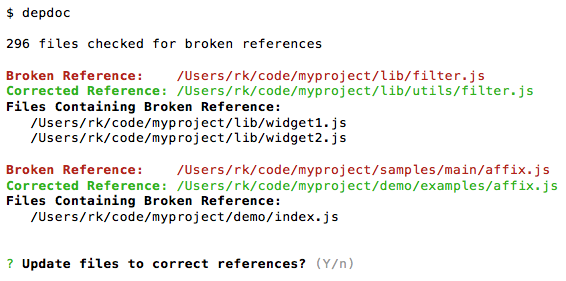
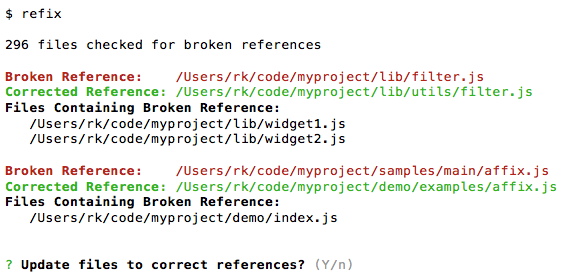
Fixed bug in expanding JS filenames. Better tests.

diff --git a/lib/cli.js b/lib/cli.js
@@ -47,23 +47,23 @@ var cli = {
 
 		program
 			.version('0.1')
-			.description('Finds and repairs broken references recursively in files in the working directory.')
+			.description('Finds and repairs broken references in the working directory. Enclose all option values in quotes.')
 			.usage('[options] [working_directory]')
 
 			// Configuration options
-			.option('-c, --config [filepath]', 'Path of custom configuration file')
-			.option('-m, --mode <default|html>', 'Type of references to look for, module import/require references (default) or HTML links (html)')
-			.option('-d, --dir <directories>', 'Comma-separated list of directories to exclude from parsing. Quotes required. (e.g., \'test,bin\')')
-			.option('-f, --files <source_globs> [target_globs]', 'Filter the source (referencing) and target (referenced) files that are analyzed and repaired. (e.g., \'*1.js,*2.js\' \'file.js\'')
+			.option('-c, --config [filepath]', 'path of custom configuration file')
+			.option('-m, --mode <default|html>', 'type of references to look for, JS import/require (default) or HTML href/src (html)')
+			.option('-f, --files <source_globs> [target_globs]', 'filter the source (referencing) and target (referenced) files parsed (e.g., \'*1.js,*2.js\' \'file.js\'')
+			.option('-d, --dirs <directory_globs>', 'exclude from sources the specified directories (e.g., \'test,bin\')')
 
 			// Report options
-			.option('-e, --errors', 'List the files that contain broken references to other files and prompt you to fix them')
-			.option('-s, --sources', 'List the files (sources of references) that contain references to other files')
-			.option('-t, --targets', 'List the files (targets of references) that are referenced by other files')
+			.option('-e, --errors', 'list broken references and prompt to fix them')
+			.option('-s, --sources', 'list files (sources of references) containing references to other files')
+			.option('-t, --targets', 'list files (targets of references) referenced by other files')
 
 			// Processing options
-			.option('-u, --unprompted', 'Don\'t prompt to fix broken references, just fix them (unless -r)')
-			.option('-r, --read-only', 'Don\'t fix broken references')
+			.option('-n, --no-prompts', 'fix broken references without prompting (unless -r)')
+			.option('-r, --report-only', 'don\'t fix broken references, just display reports')
 			.parse(process.argv);
 
 		if (program.mode) {
@@ -73,18 +73,24 @@ var cli = {
 		var options = {};
 		var cliResults = this.getMultipleArgsForOptions();
 		options.workingDir = cliResults._trailingArg;
-		if (cliResults.dir) {
-			options.directoryFilter = cliResults.dir[0]
-				? cliResults.dir[0].replace(/['"]/g, '').split(/, *| +/)
+		if (cliResults.dirs) {
+			options.directoryFilter = cliResults.dirs[0]
+				? cliResults.dirs[0].replace(/['"]/g, '').split(/, *| +/)
 				: null;
 		}
 		if (cliResults.files) {
-			options.referencingFileFilter = cliResults.files[0]
-				? cliResults.files[0].replace(/['"]/g, '').split(/, *| +/)
-				: null;
-			options.referencedFileFilter = cliResults.files[1]
-				? cliResults.files[1].replace(/['"]/g, '').split(/, *| +/)
-				: null;
+			if (cliResults.files[0]) {
+				var globs = cliResults.files[0].replace(/['"]/g, '');
+				if (globs !== '') {
+					options.referencingFileFilter = globs.split(/, *| +/);
+				}
+			}
+			if (cliResults.files[1]) {
+				var globs = cliResults.files[1].replace(/['"]/g, '');
+				if (globs !== '') {
+					options.referencedFileFilter = globs.split(/, *| +/);
+				}
+			}
 		}
 
 		var pathOfCustomConfigFile = program.config || null;
@@ -100,8 +106,8 @@ var cli = {
 		}
 
 		var processingOptions = {
-			fixBrokenReferences: !program.readOnly && reportOptions.brokenReferences,
-			promptToFix: !program.unprompted
+			fixBrokenReferences: !program.reportOnly && reportOptions.brokenReferences,
+			promptToFix: !program.noPrompts
 		};
 
 		cli.execute(reportOptions, processingOptions);

diff --git a/test/MovedFileSpec.js b/test/MovedFileSpec.js
@@ -4,6 +4,7 @@ var Q = require('q');
 var expect = require('chai').expect;
 var mv = require('mv');
 
+var fileMover = require('./helpers/fileMover');
 var config = require('../lib/config');
 var parser = require('../lib/parser');
 
@@ -15,46 +16,10 @@ describe('Moved Files', function() {
 	var baseDir = path.join(process.cwd(), options.workingDir) + '/';
 	var rootDir = path.join(baseDir, 'root') + '/';
 	before(function(done) {
-		Q.nfcall(fse.emptyDir, testBaseDir + 'moved')
-			.then(function() {
-				return Q.nfcall(fse.copy,
-					testBaseDir + 'original',
-					baseDir
-				);
-			})
-			.then(function() {
-				return Q.nfcall(fse.mkdirs,
-					rootDir + 'level1c/level2c/level3c'
-				)
-			})
-			.then(function() {
-				console.log('Test files copied');
-				return Q.all([
-					// Move file1.js
-					Q.nfcall(fse.move,
-						rootDir + 'file1.js',
-						rootDir + 'level2c/level3c/file1.js'
-					)
-				]);
-			})
-			.then(function() {
-				console.log('File structure prepared for tests');
-				done();
-			})
-			.catch(function(err) {
-				console.error(err);
-				done(err);
-			});
+		fileMover.moveFiles(done);
 	});
 	after(function(done) {
-		fse.remove(baseDir, function(err) {
-			if (!err) {
-				console.log('Test files removed');
-				done();
-			} else {
-				done(err);
-			}
-		})
+		fileMover.deleteMovedFiles(done);
 	});
 	describe('References', function() {
 		var files;
@@ -84,13 +49,12 @@ describe('Moved Files', function() {
 				})
 		});
 		it('Should find correct number of broken references', function() {
-			expect(brokenReferences).to.have.length(12);
+			expect(brokenReferences).to.have.length(13);
 		});
 		it('Should correctly identify broken references', function() {
-			expect(brokenReferences[0].referencedFile).to.equal(rootDir + 'level2c/level3c/level1a/file1.jsx');
-			expect(brokenReferences[0].referencingFiles[0]).to.equal(rootDir + 'level2c/level3c/file1.js')
+			expect(brokenReferences[1].referencedFile).to.equal(rootDir + 'level2c/level3c/level1a/file-with-references.jsx');
+			expect(brokenReferences[1].referencingFiles[0]).to.equal(rootDir + 'level2c/level3c/file-with-references.js')
 		});
 	});
-
 
 });

diff --git a/test/helpers/fileMover.js b/test/helpers/fileMover.js
@@ -1,0 +1,71 @@
+var path = require('path');
+var fse = require('fs-extra');
+var Q = require('q');
+var mv = require('mv');
+
+var fileMover = {
+
+	testBaseDir: 'test/fixtures/modules/',
+	workingDir: 'test/fixtures/modules/moved',
+
+	moveFiles: function(done) {
+		var self = this;
+		var rootDir = path.join(this.getBaseDir(), 'root') + '/';
+		return Q.nfcall(fse.emptyDir, this.workingDir)
+			.then(function() {
+				return Q.nfcall(fse.copy,
+					self.testBaseDir + 'original',
+					self.getBaseDir()
+				);
+			})
+			.then(function() {
+				return Q.nfcall(fse.mkdirs,
+					rootDir + 'level1c/level2c/level3c'
+				)
+			})
+			.then(function() {
+				console.log('Test files copied');
+				return Q.all([
+					// Move files
+					Q.nfcall(fse.move,
+						rootDir + 'file-with-references.js',
+						rootDir + 'level2c/level3c/file-with-references.js'
+					),
+					Q.nfcall(fse.move,
+						rootDir + 'level1b/file4.js',
+						rootDir + 'level1a/file4.js'
+					)
+				]);
+			})
+			.then(function() {
+				console.log('File structure prepared for tests');
+				done();
+			})
+			.catch(function(err) {
+				console.error(err);
+				done(err);
+			});
+	},
+
+	deleteMovedFiles: function(done) {
+		fse.remove(this.getBaseDir(), function(err) {
+			if (!err) {
+				console.log('Test files removed');
+				done();
+			} else {
+				done(err);
+			}
+		})
+
+	},
+
+	getBaseDir: function() {
+		return path.join(process.cwd(), this.workingDir) + '/';
+	}
+
+};
+
+module.exports = {
+	moveFiles: fileMover.moveFiles.bind(fileMover),
+	deleteMovedFiles: fileMover.deleteMovedFiles.bind(fileMover)
+};

diff --git a/test/OriginalFilesSpec.js b/test/OriginalFilesSpec.js
@@ -24,11 +24,11 @@ describe('Original Files', function() {
 			expect(Object.keys(files.existingFiles)).to.have.length(17);
 		});
 		it('Should get correct number of referencing files', function() {
-			expect(Object.keys(files.referencingFiles)).to.have.length(1);
+			expect(Object.keys(files.referencingFiles)).to.have.length(2);
 		});
 		it('Should get correct file paths', function() {
 			expect(files.existingFiles).to.have.property(path.join(process.cwd(), options.workingDir, 'root/file1.json'));
-			expect(files.existingFiles).to.have.property(path.join(process.cwd(), options.workingDir, 'root/level1a/file1.jsx'));
+			expect(files.existingFiles).to.have.property(path.join(process.cwd(), options.workingDir, 'root/level1a/file-with-references.jsx'));
 			expect(files.existingFiles).to.have.property(path.join(process.cwd(), options.workingDir, 'root/level1a/level2a/level3a/file8.js'));
 		});
 		it('Should get correct number of references within files', function() {

diff --git a/test/fixtures/modules/original/root/file-with-references.js b/test/fixtures/modules/original/root/file-with-references.js
@@ -1,6 +1,6 @@
 'use strict';
 
-import module1 from './level1a/file1.jsx';
+import module1 from './level1a/file-with-references.jsx';
 import $ from './file2.js';
 
 /*
@@ -16,12 +16,12 @@ import './rootfile4.js'
 // import module2a from './file12.js';
 
 
-var module3 = require('./level1c/file3.jsx');
+var module3 = require('./level1a/file3.jsx');
 const module4 = require('./level1b/file4.js');
 const module5 = require ("./level1b/level2b/file2.jsx");
 
 let module6 = require( './level1b/level2b/file7' ).someMethod;
-var module7 = require("./level1c/file5")();
+var module7 = require("./level1a/file5.js")();
 
 // var module8 = require('./file10.js');
 

diff --git a/lib/utils.js b/lib/utils.js
@@ -102,9 +102,14 @@ var utils = {
 
 	restoreJsFileExtension: function(filePath) {
 		mime.default_type = 'none';
-		var mimeType = mime.lookup(filePath);
-		if (mimeType === 'none') {
+		if (path.extname(filePath) === '') {
 			filePath += '.js';
+		} else {
+			// Check if .* is a valid extension or part of the filename
+			var mimeType = mime.lookup(filePath);
+			if (mimeType === 'none') {
+				filePath += '.js';
+			}
 		}
 		return filePath;
 	},

diff --git a/lib/gitParser.js b/lib/gitParser.js
@@ -1,0 +1,23 @@
+var simpleGit = require('simple-git');
+var git;
+
+var config = require('./config');
+
+var gitParser = {
+
+	getHistory: function() {
+		this.init();
+		git.status(function(result) {
+			console.log(result);
+		});
+	},
+
+	init: function(workingDir) {
+		git = simpleGit(config.get().workingDir);
+	}
+
+};
+
+module.exports = {
+	getHistory: gitParser.getHistory.bind(gitParser)
+};

diff --git a/lib/parser.js b/lib/parser.js
@@ -9,6 +9,7 @@ var minimatch = require('minimatch');
 
 var utils = require('./utils');
 var config = require('./config');
+var gitParser = require('./gitParser');
 
 var parser = {
 

diff --git a/test/fixtures/modules/original/root/level1a/file-with-references.jsx b/test/fixtures/modules/original/root/level1a/file-with-references.jsx
@@ -1,0 +1,1 @@
+import module from '../level1b/file4';

diff --git a/README.md b/README.md
@@ -28,11 +28,11 @@ The program can repair only references broken as a result of files being moved. 
 
 ![Prompt to choose file](img/example2.png)
 
- Using the command-line options described below, you can generate reports showing which files contain references and which files they refer to. You can filter the searches via command line options or configuration settings in a `.depdocrc` configuration file.
+ Using the command-line options described below, you can generate reports showing which files contain references and which files they refer to. You can filter the searches via command line options or configuration settings in a `.refixrc` configuration file.
  
 ## Tip
  
-Use `refix` to automatically expand references you type into files. If you don't know the full path of a referenced file, type in `'./filename.js`, run `refix` to update the file and fix the reference, then reload it in your editor.
+Use `refix` to automatically expand references you type into files. If you don't know the full path of a referenced file, type in `'./nameOfYourFile.js`, run `refix` to update the file and replace `./` with the correct path, then reload the file in your editor.
 
 ## Command Line Options
 
@@ -47,8 +47,8 @@ Each option has an abbreviated (`-o`) and a full (`--option`) version that can b
 - `-e --errors` - List broken references and files containing them. This option is engaged by default if none of the reporting options below are engaged.
 - `-m default` or `--mode default` - Fix `import` and `require` statements in JavaScript files. This is the default mode if `-m` is omitted.  
 - `-m html` or `--mode html` - Fix broken `href` and `src` attributes in HTML files.  
-- `-r --read-only` - Don't fix errors, just show the report.  
-- `-u --unprompted` - Fix errors without prompting.
+- `-n --no-prompts` - Fix errors without prompting (unless overridden by `-r`).
+- `-r --report-only` - Don't fix errors, just show the report. (Overrides `-p`.)
 
 ### Filtering
 
@@ -68,33 +68,38 @@ All lists of globs, as described below, must be separated by commas or spaces an
 ```
 -h, --help                                 output usage information
 -V, --version                              output the version number
--c, --config [filepath]                    Path of custom configuration file
--m, --mode <default|html>                  Type of references to look for, module import/require references (default) or HTML links (html)
--d, --dir <directory>                      Comma-separated list of directories to exclude from parsing. Quotes required. (e.g., 'test,bin')
--f, --files <source_globs> [target_globs]  Filter the source (referencing) and target (referenced) files that are analyzed and repaired. (e.g., '*1.js,*2.js' 'file.js'
--e, --errors                               List the files that contain broken references to other files and prompt you to fix them
--s, --sources                              List the files (sources of references) that contain references to other files
--t, --targets                              List the files (targets of references) that are referenced by other files
--u, --unprompted                           Don't prompt to fix broken references, just fix them (unless -r)
--r, --read-only                            Don't fix broken references
+-c, --config [filepath]                    path of custom configuration file
+-m, --mode <default|html>                  type of references to look for, JS import/require (default) or HTML href/src (html)
+-f, --files <source_globs> [target_globs]  filter the source (referencing) and target (referenced) files parsed (e.g., '*1.js,*2.js' 'file.js'
+-d, --dirs <directory_globs>               exclude from sources the specified directories (e.g., 'test,bin')
+-e, --errors                               list broken references and prompt to fix them
+-s, --sources                              list files (sources of references) containing references to other files
+-t, --targets                              list files (targets of references) referenced by other files
+-n, --no-prompts                           fix broken references without prompting (unless -r)
+-r, --report-only                          don't fix broken references, just display reports
 ```
 
 ## Examples
 
-`depdoc`
+`refix`
 List all broken references and prompt you to fix them.
 
-`depdoc -ret -d 'test' -f '!*Test.js,!*Spec.js'`  
+`refix -ret -d 'test' -f '!*Test.js,!*Spec.js'`  
 Don't repair files, list errors and all references (targets), and filter out test files and directories.
 
-## Configuration
+`refix -u -f '' '**/examples/*Widget.*,**/examples/*Module.*'`
+Repair files without prompting. Fix only references to widgets and modules in `examples` directory. 
 
-You can also specify filtering and parsing options by creating a `.depdocrc` file. Place it in your `$home` or `/etc` directory, or specify its path using the command-line option `-c|--config`. The file will be merged into the following default settings and should use the same JSON format.
+## Customization
+
+### Configuration File
+
+You can also specify filtering and parsing options by creating a `.refixrc` file. Place it in your `$home` or `/etc` directory, or specify its path using the command-line option `-c|--config`. The file will be merged into the following default settings and should use the same JSON format.
 
 ```javascript
 {
   "default": {
-    "workingDir": "{{CWD}}",
+    "workingDir": ".",
     "directoryFilter": [
       ".*",
       "node_modules",
@@ -137,7 +142,7 @@ You can also specify filtering and parsing options by creating a `.depdocrc` fil
 }
 ```
 
-You can add as many modes as you want and select them from the command line using the `-m` switch. Each new mode will be merged with `default`, so you need only include the properties you wish to overrride. For example, adding the following to a `.depdocrc` file will exclude all `test` and `qa` directories from parsing, and it will allow you to use the command-line option `-m myMode` to search for only `*.jsx` files that reference `*.js` files.
+You can add as many modes as you want and select them from the command line using the `-m` switch. Each new mode will be merged with `default`, so you need only include the properties you wish to overrride. For example, adding the following to a `.refixrc` file will exclude all `test` and `qa` directories from parsing, and it will allow you to use the command-line option `-m myMode` to search for only `*.jsx` files that reference `*.js` files.
 
 ```javascript
 {
